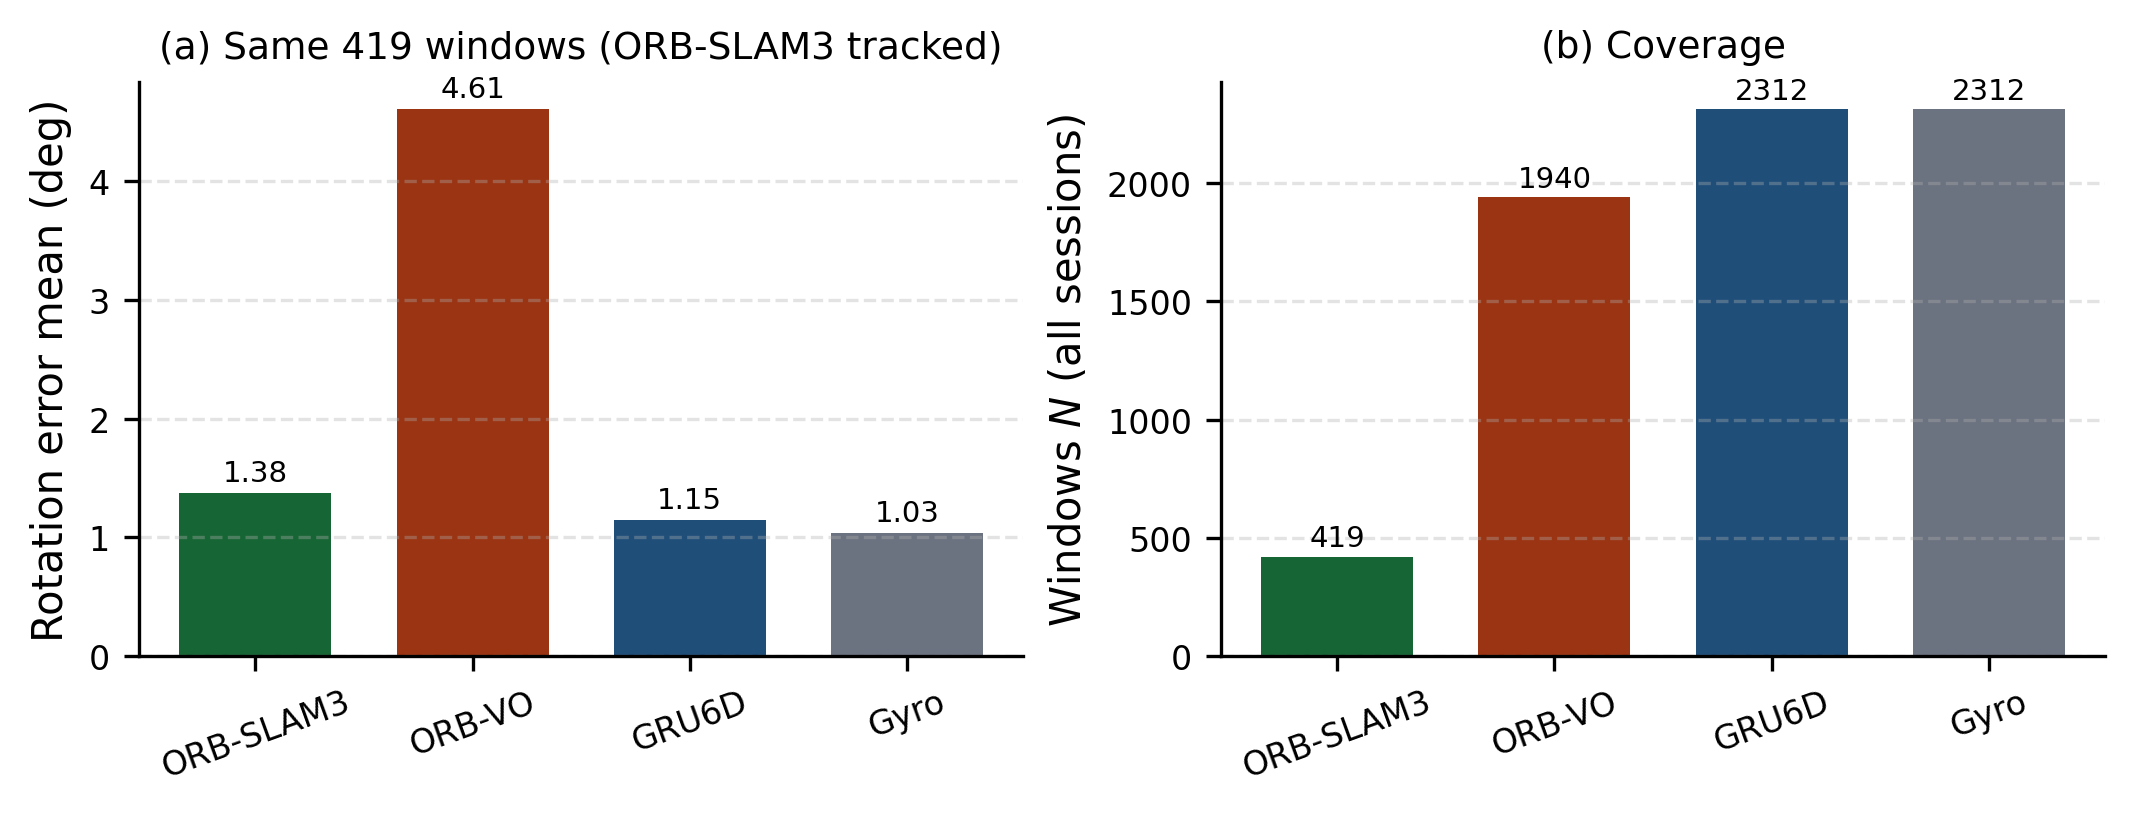
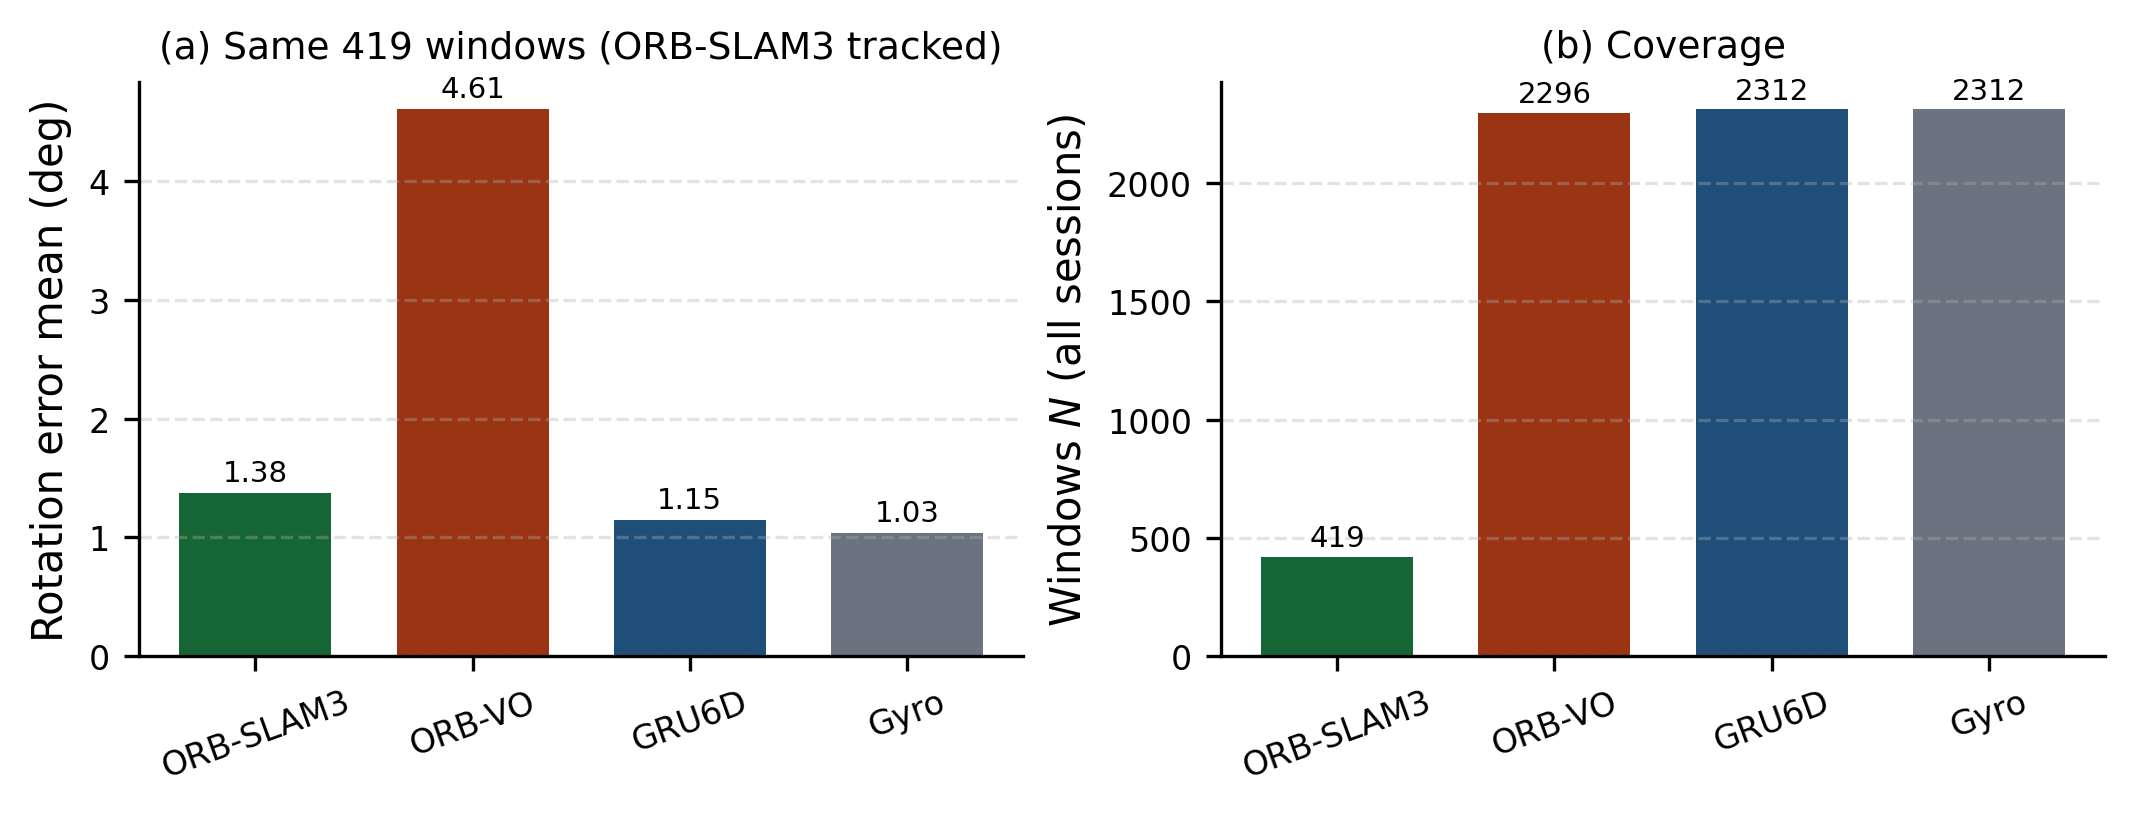
Compare the inertial increment with ORB-VO and fix the coverage panel
fusion_hybrid_results.json gains the session-level comparison of the inertial increment (gyroscope rotation) with ORB-VO on common windows. Fig_fixedtest_subset_fair (b) now plots the ORB-VO window count over all sessions (2296) instead of the four-session subset. The README uses the official name Endo-FASt3r.

Changed region(s): [[0.6804, 0.0921, 0.7732, 0.2457]]

diff --git a/experiments/make_fig_fixedtest_aligned.py b/experiments/make_fig_fixedtest_aligned.py
@@ -83,7 +83,7 @@ def main():
     ax[0].set_ylabel("Rotation error mean (deg)")
     ax[0].set_title(f"(a) Same {s['N']} windows (ORB-SLAM3 tracked)", fontsize=9)
     style(ax[0])
-    n = [s["N"], sub["on_orbvo_windows"]["N"], 2312, 2312]
+    n = [s["N"], rows["vo_only"]["N"], R["N"], R["N"]]
     bars(ax[1], ["ORB-SLAM3", "ORB-VO", "GRU6D", "Gyro"], n, ["#166534", C_VIS, C_IN, C_CL], "{:d}", 20)
     ax[1].set_ylabel("Windows $N$ (all sessions)")
     ax[1].set_title("(b) Coverage", fontsize=9)

diff --git a/experiments/eval_fusion_hybrid.py b/experiments/eval_fusion_hybrid.py
@@ -102,6 +102,8 @@ def main():
     vr, vt, _ = blend(vrecs, None, 0, 0, None)
     out["validation_inertial"] = summ(vr, vt)
     out["rows"]["inertial"] = summ(br, bt)
+    rvo, _, _ = ev.visual_only(trecs, "vo")
+    out["stats"]["inertial_vs_orbvo_rot"] = ev.session_stats(rvo - br, sess, names)
     scales = {k: ev.inertial_scales(trecs, k, 0) for k in ("vo", "hf", "slam")}
     for key in ("vo", "hf"):
         w = select(vrecs, key)

diff --git a/README.md b/README.md
@@ -18,9 +18,9 @@ Close-range camera tracking often runs where repeatable corners vanish and tight
 |---|---|
 | 11 held-out sessions, N = 2312 windows of 0.5 s | Estimated camera--IMU latency 0.50 s (per-session IQR -0.51 to -0.48 s). Inertial increment (gyroscope rotation, GRU6D translation) 1.080 deg / 9.146 mm at 100% coverage (zero motion 2.812 deg / 10.330 mm; GRU6D rotation 1.178 deg; ORB-VO 5.027 deg). Mono-inertial ORB-SLAM3 with the same calibration: 3 usable windows; monocular ORB-SLAM3: 18.1% of the windows. Gated blends never exceed the rotation bound (largest excess 1.46 deg for gamma_R * tau = 1.5 deg; 89.8 deg without the gate). With weights selected on the 13 validation sessions (gamma_R = 0.05; gamma_t = 0.55 for ORB-VO, 0.40 for the height field), the ORB-VO blend reaches 1.077 deg / 7.686 mm (translation better in 10 of 11 sessions, p = 0.003) and the height-field blend 1.081 deg / 8.305 mm (11 of 11, p = 0.001). |
 | Learned inertial encoders, same heads, loss, split, and schedule (3 seeds, 120 epochs) | RoNIN-ResNet 1.143 +/- 0.040 deg / 8.64 mm; RoNIN-LSTM 1.150 +/- 0.001 deg / 8.47 mm; TLIO-ResNet 1.292 +/- 0.073 deg / 8.31 mm; GRU6D 1.194 +/- 0.019 deg / 8.98 mm. No encoder differs from GRU6D in a session-level Wilcoxon test (p >= 0.067). Without the time alignment, gyroscope integration reaches 2.33 deg and GRU6D 2.15 deg (`experiments/inertial_baselines/`). |
-| 18 real 4K-referenced endoscope segments | Height-field tracker: Sim(3) ATE 14.22 mm (median 2.98) vs. 16.57 mm for a static trajectory (better on 18/18); not significantly different from VGGT, EndoDAC, CUT3R, Reloc3r, and AF-SfMLearner (p >= 0.13); Endo-FASt3R and Pi3 are more accurate. |
-| 92 EndoEgoSim sequences | 71 sequences with camera translation: 16.69 mm vs. 30.54 mm static (better on 71/71); VGGT 15.73 mm (p = 0.22); CUT3R, EndoDAC, AF-SfMLearner, Reloc3r, Pi3, Endo-FASt3R, and DROID-SLAM are more accurate (7.78--13.31 mm). 21 pure-rotation sequences (scored by rotation only): 2.01 deg vs. 1.63 deg static, the failure predicted by the representability analysis. |
-| 10 C3VD phantom sequences | 11.13 mm vs. 14.43 mm static (better on 10/10); all six learned baselines are more accurate (4.70--8.35 mm; significant for AF-SfMLearner, EndoDAC, Endo-FASt3R, and Pi3). |
+| 18 real 4K-referenced endoscope segments | Height-field tracker: Sim(3) ATE 14.22 mm (median 2.98) vs. 16.57 mm for a static trajectory (better on 18/18); not significantly different from VGGT, EndoDAC, CUT3R, Reloc3r, and AF-SfMLearner (p >= 0.13); Endo-FASt3r and Pi3 are more accurate. |
+| 92 EndoEgoSim sequences | 71 sequences with camera translation: 16.69 mm vs. 30.54 mm static (better on 71/71); VGGT 15.73 mm (p = 0.22); CUT3R, EndoDAC, AF-SfMLearner, Reloc3r, Pi3, Endo-FASt3r, and DROID-SLAM are more accurate (7.78--13.31 mm). 21 pure-rotation sequences (scored by rotation only): 2.01 deg vs. 1.63 deg static, the failure predicted by the representability analysis. |
+| 10 C3VD phantom sequences | 11.13 mm vs. 14.43 mm static (better on 10/10); all six learned baselines are more accurate (4.70--8.35 mm; significant for AF-SfMLearner, EndoDAC, Endo-FASt3r, and Pi3). |
 | Controlled fusion with simulated inertial increments (92 simulated sequences, 18 real segments; 4 noise levels, 5 seeds) | With gamma = 0.5 and tau = 3 deg the rotation error never exceeds the inertial one by more than gamma * tau (largest excess 1.48 deg); without the gate single increments degrade by up to 20.1 deg. At sigma_R = 1 deg the blend lowers the rotation error from 1.60 to 1.22 deg (simulated) and 0.97 deg (real), and gamma* computed from the gated increments gives an error within 0.03 deg of that of the best fixed weight. Blending translation hurts when the inertial translation is accurate. The inertial increments are synthesized from the reference poses and used only for this study. |
 | Runtime (Intel Core Ultra 9 275HX) | Tracker at 640 px, at most 8000 points: 257 ms per frame on one CPU thread, 66.9 ms with 24 threads. GRU6D: 17.3 ms per window on one thread. |
 | CholecSeg8k, N = 8080 | Prompt-free filled support (q = 0.68): soft-tissue Dice 0.769, IoU 0.641, below an all-foreground mask (0.813 / 0.690), so region overlap does not rank the methods on this benchmark. |
